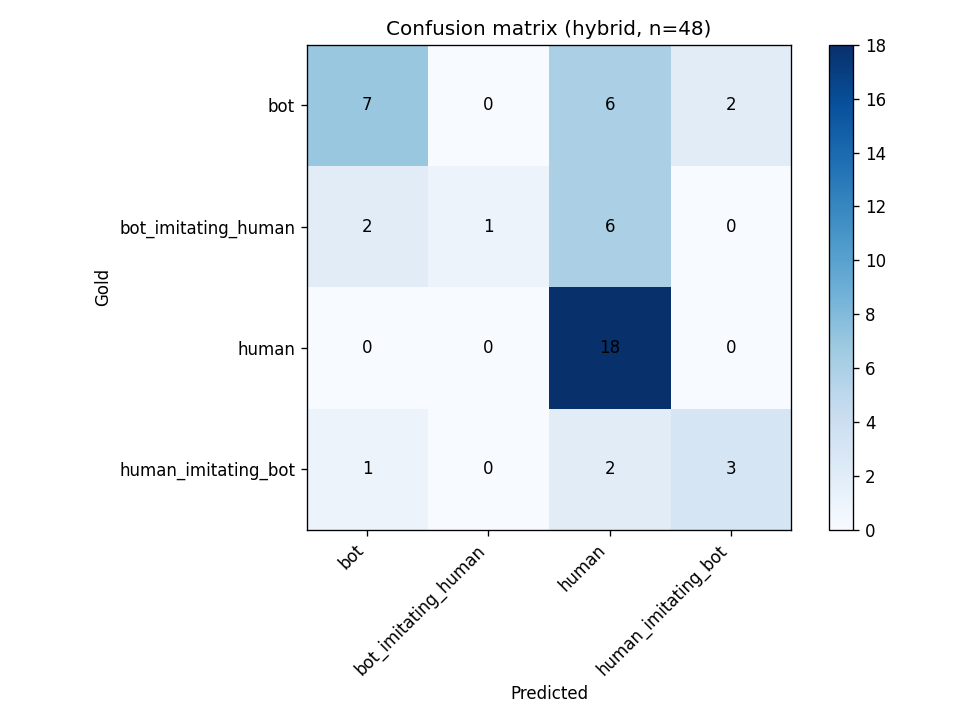
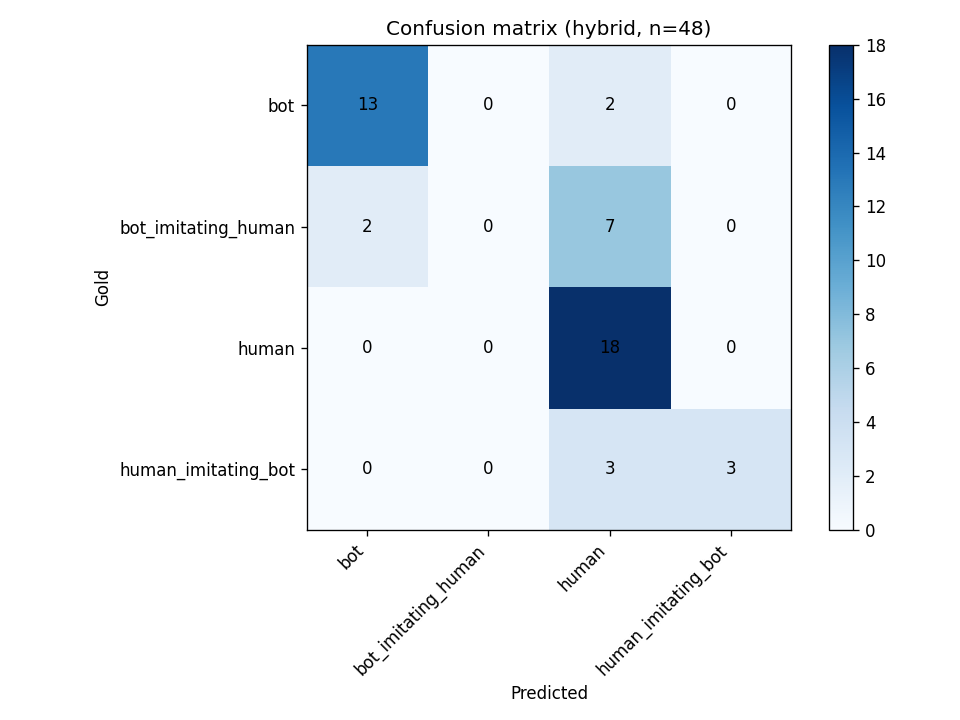
Added progress bar

diff --git a/src/eval_runner.py b/src/eval_runner.py
@@ -2,8 +2,11 @@ from __future__ import annotations
 
 import json
 import os
+from collections.abc import Callable
 from dataclasses import dataclass
 from pathlib import Path
+
+ProgressCallback = Callable[[str, int, int], None]
 
 # Writable matplotlib cache inside repo (CI/sandbox friendly)
 _MPL_DIR = Path(__file__).resolve().parents[1] / "results" / ".matplotlib"
@@ -73,6 +76,7 @@ def run_eval(
     mode: str = "features_only",
     model: str = "llama3.2:3b",
     tier_filter: str | None = None,
+    on_progress: ProgressCallback | None = None,
 ) -> dict:
     rows = rows or load_eval()
     if tier_filter:
@@ -88,7 +92,14 @@ def run_eval(
     confidences: list[int] = []
     correct_flags: list[bool] = []
 
-    for r in rows:
+    total = len(rows)
+    for i, r in enumerate(rows, start=1):
+        if on_progress:
+            on_progress(
+                f"{mode}: classifying {r.username} ({i}/{total})",
+                i,
+                total,
+            )
         ctx = thread_participants[r.thread_id]
         pred = classify_participant(
             r.username,
@@ -161,21 +172,44 @@ def save_confusion_matrix(metrics: dict, out_path: Path) -> None:
     plt.close(fig)
 
 
-def run_full_eval_suite(model: str = "llama3.2:3b") -> dict:
+def run_full_eval_suite(
+    model: str = "llama3.2:3b",
+    on_progress: ProgressCallback | None = None,
+) -> dict:
     RESULTS_DIR.mkdir(parents=True, exist_ok=True)
+    modes = ("features_only", "hybrid")
+    rows = load_eval()
+    n = len(rows)
+    total_steps = len(modes) * (n + 1) + 1
+
+    def report(message: str, step: int) -> None:
+        if on_progress:
+            on_progress(message, step, total_steps)
+
     suite: dict = {}
-    for mode in ("features_only", "hybrid"):
+    step = 0
+    for mode in modes:
         try:
-            m = run_eval(mode=mode, model=model)
+
+            def mode_progress(message: str, current: int, _local_total: int) -> None:
+                report(message, step + current)
+
+            m = run_eval(mode=mode, model=model, on_progress=mode_progress)
+            step += n
             suite[mode] = {
                 k: v for k, v in m.items() if k not in ("y_true", "y_pred", "labels")
             }
             save_confusion_matrix(
                 m, RESULTS_DIR / f"confusion_matrix_{mode}.png"
             )
+            step += 1
+            report(f"Saved confusion matrix ({mode})", step)
         except Exception as e:
+            step += n + 1
             suite[mode] = {"error": str(e)}
 
+    step += 1
+    report("Writing eval_run.json", step)
     out = RESULTS_DIR / "eval_run.json"
     with out.open("w", encoding="utf-8") as f:
         json.dump(suite, f, indent=2)

diff --git a/pages/2_Eval_dashboard.py b/pages/2_Eval_dashboard.py
@@ -129,8 +129,16 @@ if action == "Run full suite":
     st.warning(f"This may take a while to run, depending on the model and the size of the gold set.")
 
     if st.button("Run full suite"):
-        with st.spinner("Running full suite for model {model}..."):
-            suite = run_full_eval_suite(model=model)
+        progress = st.progress(0, text="Starting full suite…")
+        status = st.empty()
+
+        def on_progress(message: str, current: int, total: int) -> None:
+            progress.progress(min(current / total, 1.0), text=message)
+            status.caption(f"Step {current} of {total}")
+
+        suite = run_full_eval_suite(model=model, on_progress=on_progress)
+        progress.progress(1.0, text="Full suite complete")
+        status.empty()
         st.success(f"Saved to `{EVAL_JSON.relative_to(ROOT)}`")
         for mode, metrics in suite.items():
             _display_mode_results(mode, metrics)